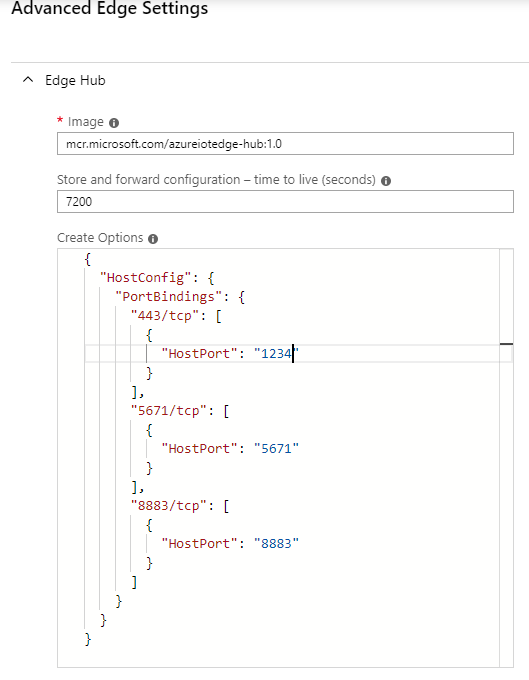
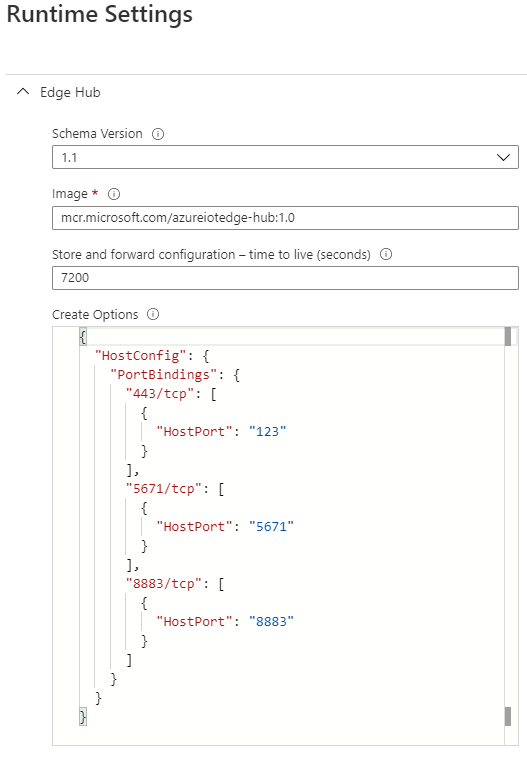
Updated README.md

diff --git a/README.md b/README.md
@@ -22,7 +22,7 @@
 https://youtu.be/rZ8kpsomBIU 
 
 ## Create an Iot-Hub, add iot edge device and deviceDeploy your first IoT Edge Module: 
-https://docs.microsoft.com/de-de/azure/iot-edge/quickstart-linux
+https://docs.microsoft.com/en-us/azure/iot-edge/quickstart-linux
 
 Please go through the following points:
 - Create an IoT Hub.
@@ -32,35 +32,36 @@ Please go through the following points:
 
 
 > <span style="color:red;"> <strong>Attention:</strong> </span> To prevent port <strong>"443"</strong> clashing of <strong>"edgeHub"</strong> container and of Wago Webserver, it is absolutely necessary to change the <strong>"HostBindings"</strong>.   You can use any free host ports.
+Navigate to Azure Portal-> Your Edge Device-> Set modules on device->Runtime Settings
 
 <br>
 <div style="text-align: center">
-<img src="https://github.com/WAGO/azure-iot-edge/blob/master/images/advanceEdgeSettings.png"
+<img src="https://github.com/WAGO/azure-iot-edge/blob/master/images/advanceEdgeSettings.png?raw=true"
      alt="AdvanceEdgeSettings"/>
 </div>
 
-## Wago Device Login
-Start SSH Client e.g. Putty 
- ```bash
-login as `root`
-password `wago`
- ```
-## Check docker installation
 
+## Configuration and start of azure iot edge runtime container. 
+
+The configuration of azure-iot-edge-runtime container is done via the config.yaml file. 
+This file is generated by the command below into the <b>empty</b> mounted folder. 
 ```bash
-docker info
- ```
+  docker run --rm -v /config:/config wagoautomation/azure-iot-edge init
+```
+> <span style="color:red;"> <strong>Attention:</strong> </span> The file is read-only and must be made temporary writable for the current user.
+```bash
+ chmod 644 
+ or
+ chmod 666
+```
 
-## Start azure iot edge runtime container. 
+Finally, provisioning configurations can be made. Please feel the corresponding sections in config.yaml (e.g. manual provisioning using connection string or X.509 certificate)
+For more details see: https://docs.microsoft.com/en-us/azure/iot-edge/how-to-manual-provision-symmetric-key?tabs=azure-portal%2Clinux
+
  ```bash
-  docker run \
-    -it \
-    --net="host" \
-    --name azure-iot-edge-runtime \
+  docker run -d --name azure-iot-edge-runtime \
     -v //var//run//docker.sock://var//run//docker.sock \
-    -v /etc/os-release:/etc/os-release \
-    -e IOT_DEVICE_CONNSTR="MY_IOT_HUB_DEVICE_CONNSTR" \
-    -e IOT_DEVICE_HOST_IP="MY_WAGO_DEVICE_IPADDRESS" \
+    -v /config:/config \
     wagoautomation/azure-iot-edge
   ```
 
@@ -80,16 +81,17 @@ docker ps --format "table {{.Image}}\t {{.Status}}\t{{.Names}}"
 
 <br>
 <div style="text-align: center">
-<img src="https://github.com/WAGO/azure-iot-edge/blob/master/images/docker_ps_format.png"
+<img src="https://github.com/WAGO/azure-iot-edge/blob/master/images/docker_ps_format.png?raw=true"
      alt="docker_ps_format"/>
 </div>
 
 
 The <strong>"SimulatedTemperatureSensor"</strong> module sends <strong>"500"</strong> simulation messages to your Iot Hub. The telemetry data can be displayed e.g. with a Visual Studio Code extension. (see: https://marketplace.visualstudio.com/items?itemName=vsciot-vscode.azure-iot-toolkit)
 
-<br><br>
+<br>
 Finally, Wago device is ready for azure iot edge module deployment! <br>
-Happy IoTing!
+
+<b>Happy IoTing! </b>
 
 ## Azure IoT Edge Modbus Module
 
@@ -129,6 +131,7 @@ chmod +x resources/iot-edge-starter
 ```bash
 docker build -t my-azure-iot-edge .
 ```
+
 
 ### Build docker azure-iot-edge-runtime image on linux pc
 To build ARM images you need QEMU ARM Emulator installed see (https://www.qemu.org/) 
